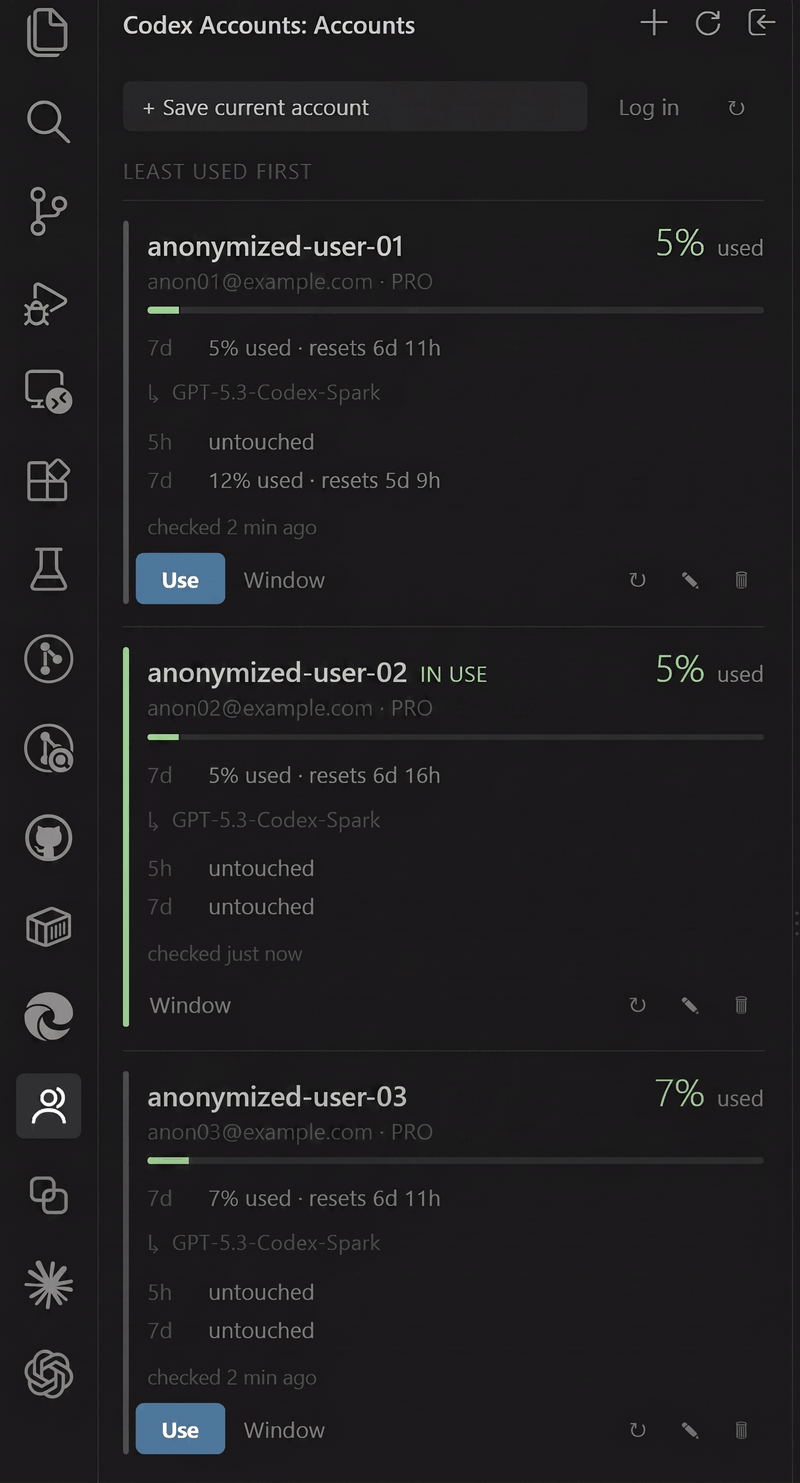
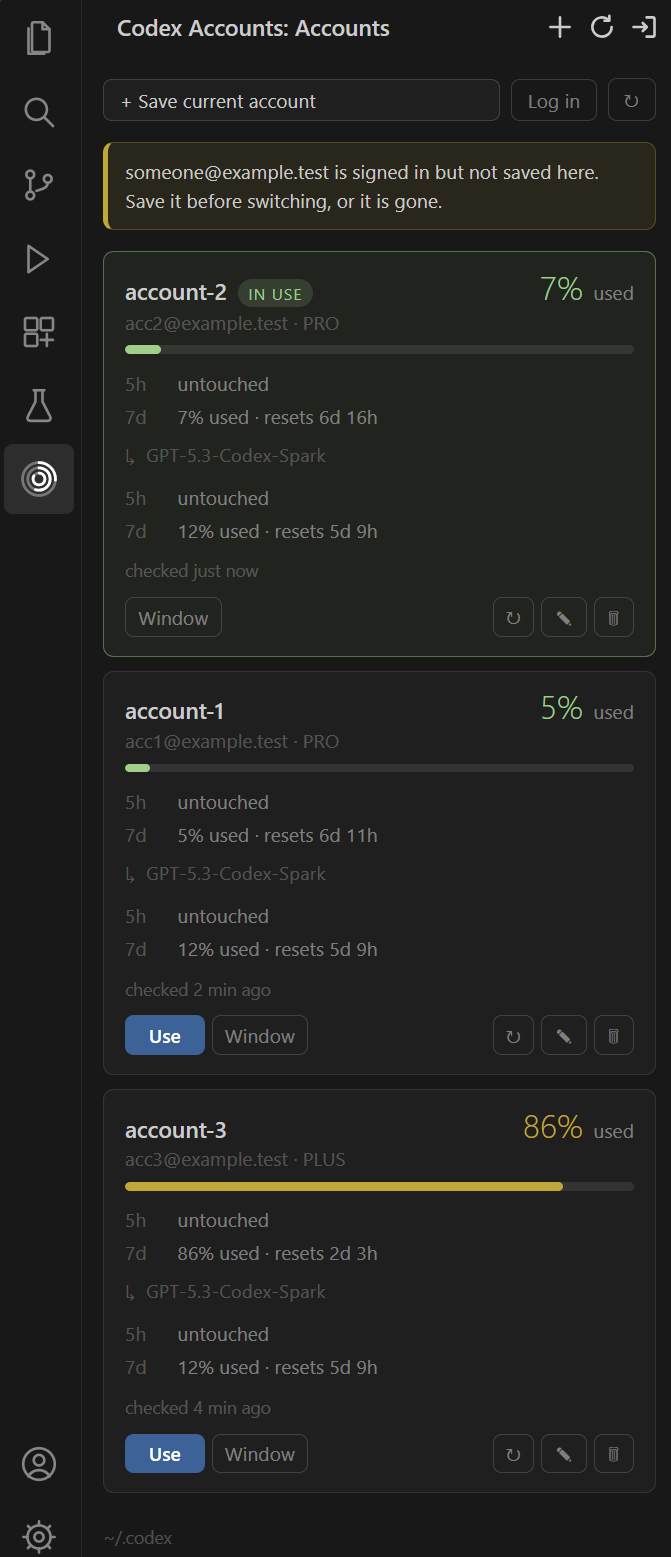
feat: a card per account, and the account in use on top (#2)
A closed border around each account separates two of them better than the
rule between them did: the block reads as one object rather than as the
text that happens to sit under a line. The card in use is stated by its own
edge, tinted green, so the rail that used to carry it is gone — one
indicator, not two.

Every control now carries an edge of its own instead of appearing only on
hover; a panel this size is read in one glance, and floating text does not
say "click me". The usage bar goes to five pixels with rounded ends, since
a three-pixel hairline barely showed a single-digit reading, and "in use"
becomes a pill so it stops reading as part of the account name beside it.

The account in use is pinned to the top of the list: it is the one being
spent, so its numbers are what the panel is opened to read. Everything
below it keeps the previous order — most room first, accounts with no
reading last. The "least used first" caption goes away with it, since the
order carries itself and the pill on the top card already says which
account is in use.

diff --git a/media/panel.css b/media/panel.css
@@ -3,6 +3,9 @@
   --muted: color-mix(in srgb, var(--vscode-foreground) 55%, transparent);
   --faint: color-mix(in srgb, var(--vscode-foreground) 30%, transparent);
   --rule: color-mix(in srgb, var(--vscode-foreground) 12%, transparent);
+  --edge: color-mix(in srgb, var(--vscode-foreground) 20%, transparent);
+  --edge-hover: color-mix(in srgb, var(--vscode-foreground) 35%, transparent);
+  --surface: color-mix(in srgb, var(--vscode-foreground) 4%, transparent);
   --ok: var(--vscode-charts-green, #3fb950);
   --low: var(--vscode-charts-yellow, #d29922);
   --out: var(--vscode-charts-red, #f85149);
@@ -26,18 +29,22 @@ body {
   padding-bottom: 12px;
 }
 
+/* Every control carries an edge of its own, so a button looks like a button
+   before it is hovered. Ghost buttons were quieter, but on a sidebar the whole
+   panel is read in one glance and floating text does not read as clickable. */
 .toolbar button {
   font: inherit;
   font-size: 11px;
-  padding: 5px 9px;
-  border: 0;
-  border-radius: 4px;
+  padding: 4px 9px;
+  border: 1px solid var(--edge);
+  border-radius: 5px;
   background: transparent;
   color: var(--muted);
   cursor: pointer;
 }
 
 .toolbar button:hover {
+  border-color: var(--edge-hover);
   background: color-mix(in srgb, var(--vscode-foreground) 10%, transparent);
   color: var(--vscode-foreground);
 }
@@ -46,7 +53,7 @@ body {
   flex: 1;
   text-align: left;
   color: var(--vscode-foreground);
-  background: color-mix(in srgb, var(--vscode-foreground) 8%, transparent);
+  background: var(--surface);
 }
 
 .toolbar button:disabled {
@@ -54,20 +61,14 @@ body {
   cursor: default;
 }
 
-/* ---------- caption ---------- */
-
-.caption {
-  font-size: 10px;
-  letter-spacing: 0.08em;
-  text-transform: uppercase;
-  color: var(--faint);
-  padding-bottom: 8px;
-}
+/* ---------- hint ---------- */
 
 .hint {
   margin-bottom: 12px;
   padding: 8px 10px;
+  border: 1px solid color-mix(in srgb, var(--low) 30%, transparent);
   border-left: var(--rail) solid var(--low);
+  border-radius: 6px;
   background: color-mix(in srgb, var(--low) 10%, transparent);
   font-size: 11px;
   line-height: 1.5;
@@ -75,25 +76,25 @@ body {
 
 /* ---------- account ---------- */
 
+/* A closed border around each account separates two cards better than a rule
+   between them did: the block reads as one object instead of as the text that
+   happens to sit under a line. */
 .account {
-  position: relative;
-  padding: 10px 0 11px 12px;
-  border-top: 1px solid var(--rule);
+  padding: 10px 12px 11px;
+  border: 1px solid var(--rule);
+  border-radius: 6px;
+  background: var(--surface);
 }
 
-.account::before {
-  content: '';
-  position: absolute;
-  left: 0;
-  top: 10px;
-  bottom: 11px;
-  width: var(--rail);
-  border-radius: var(--rail);
-  background: var(--faint);
+.account + .account {
+  margin-top: 8px;
 }
 
-.account.active::before {
-  background: var(--ok);
+/* The active card is stated by its own edge, so the left rail that used to
+   carry it is gone — one indicator, not two. */
+.account.active {
+  border-color: color-mix(in srgb, var(--ok) 45%, transparent);
+  background: color-mix(in srgb, var(--ok) 6%, transparent);
 }
 
 .account-head {
@@ -123,11 +124,16 @@ body {
   white-space: nowrap;
 }
 
+/* A pill, not loose text: it labels the card the way the card's own edge does,
+   and it stops reading as part of the account name next to it. */
 .active-tag {
-  font-size: 10px;
-  letter-spacing: 0.06em;
+  font-size: 9px;
+  letter-spacing: 0.07em;
   text-transform: uppercase;
   color: var(--ok);
+  padding: 2px 6px;
+  border-radius: 999px;
+  background: color-mix(in srgb, var(--ok) 16%, transparent);
 }
 
 
@@ -154,8 +160,8 @@ body {
 
 
 .track {
-  height: 3px;
-  border-radius: 2px;
+  height: 5px;
+  border-radius: 3px;
   background: color-mix(in srgb, var(--vscode-foreground) 12%, transparent);
   overflow: hidden;
 }
@@ -163,6 +169,7 @@ body {
 .track > span {
   display: block;
   height: 100%;
+  border-radius: inherit;
   background: var(--ok);
 }
 
@@ -225,25 +232,27 @@ body {
 
 /* ---------- actions ---------- */
 
+/* Bordered buttons sit on their own box, so the row no longer needs to be
+   pulled left to line its text up with the card's edge. */
 .actions {
   display: flex;
-  gap: 2px;
-  padding-top: 7px;
-  margin-left: -6px;
+  gap: 4px;
+  padding-top: 9px;
 }
 
 .actions button {
   font: inherit;
   font-size: 11px;
-  padding: 4px 7px;
-  border: 0;
-  border-radius: 4px;
+  padding: 3px 7px;
+  border: 1px solid var(--edge);
+  border-radius: 5px;
   background: transparent;
   color: var(--muted);
   cursor: pointer;
 }
 
 .actions button:hover {
+  border-color: var(--edge-hover);
   background: color-mix(in srgb, var(--vscode-foreground) 10%, transparent);
   color: var(--vscode-foreground);
 }
@@ -251,13 +260,15 @@ body {
 /* Switching accounts is the whole point of the panel, so it gets the only
    filled button on the card; everything else stays quiet around it. */
 .actions button.use {
-  padding: 5px 13px;
+  padding: 3px 13px;
   font-weight: 600;
+  border-color: transparent;
   background: var(--vscode-button-background);
   color: var(--vscode-button-foreground);
 }
 
 .actions button.use:hover {
+  border-color: transparent;
   background: var(--vscode-button-hoverBackground);
   color: var(--vscode-button-foreground);
 }
@@ -267,6 +278,7 @@ body {
 }
 
 .actions button.danger:hover {
+  border-color: color-mix(in srgb, var(--out) 45%, transparent);
   background: color-mix(in srgb, var(--out) 18%, transparent);
   color: var(--out);
 }

diff --git a/media/panel.js b/media/panel.js
@@ -1,7 +1,6 @@
 (function () {
   const vscode = acquireVsCodeApi();
   const list = document.getElementById('accounts');
-  const caption = document.getElementById('caption');
   const empty = document.getElementById('empty');
   const unsaved = document.getElementById('unsaved');
   const home = document.getElementById('home');
@@ -213,9 +212,14 @@
   function render(state) {
     warnThreshold = state.warnThreshold || 80;
 
-    // Most room first, so the account to switch to is the one at the top.
-    // Accounts with no reading sink to the bottom rather than posing as full.
+    // The account in use is pinned to the top: it is the one being spent, so
+    // its numbers are what the panel is opened to read. Everything below it is
+    // most room first, so the account to switch to is the next one down, and
+    // accounts with no reading sink to the bottom rather than posing as full.
     const ordered = [...state.profiles].sort((a, b) => {
+      if (a.active !== b.active) {
+        return a.active ? -1 : 1;
+      }
       const left = runway(a);
       const right = runway(b);
       if (left === right) {
@@ -233,8 +237,6 @@
     const busy = new Set(state.pending || []);
     list.replaceChildren(...ordered.map((profile) => accountNode(profile, busy.has(profile.id))));
     empty.hidden = ordered.length > 0;
-    caption.hidden = ordered.length < 2;
-    caption.textContent = 'least used first';
 
     if (state.unsaved) {
       unsaved.textContent = `${state.unsaved.email || 'An account'} is signed in but not saved here. Save it before switching, or it is gone.`;

diff --git a/src/panel.ts b/src/panel.ts
@@ -110,7 +110,6 @@ export class AccountsPanel implements vscode.WebviewViewProvider {
   <button data-action="refreshAll" title="Check every account"><span>&#8635;</span></button>
 </div>
 <div id="unsaved" class="hint" hidden></div>
-<div id="caption" class="caption" hidden></div>
 <div id="accounts"></div>
 <div id="empty" class="empty" hidden>
   No accounts saved yet.<br>Sign in with <code>codex login</code>, then use <b>Save current account</b>.

diff --git a/README.md b/README.md
@@ -12,8 +12,8 @@ just to find out how much is left on each.
 
 - **Activity bar panel** where each account leads with the consumption of its
   tightest window — one figure and one bar, both reading the same direction —
-  and the list is ordered least-used-first, so the account to switch to is the
-  one on top.
+  with the account in use pinned to the top and the rest ordered
+  least-used-first, so the account to switch to is the one right below it.
 - **Per-model limits nested under the account.** Codex reports an account-wide
   limit plus one per model family (Spark, …); the account-wide one drives the
   headline, the families sit below it.
